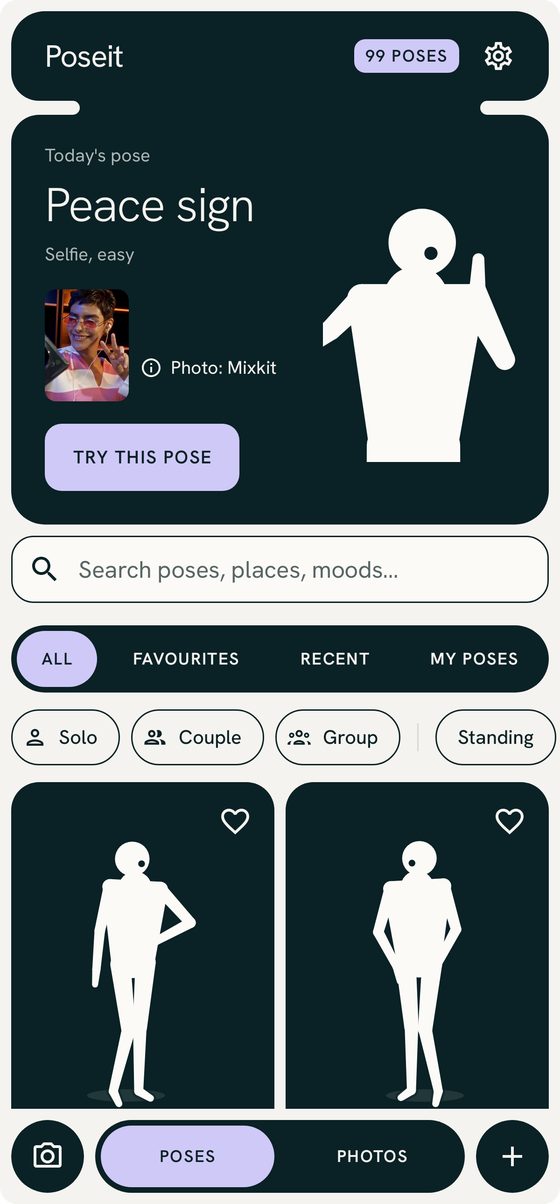
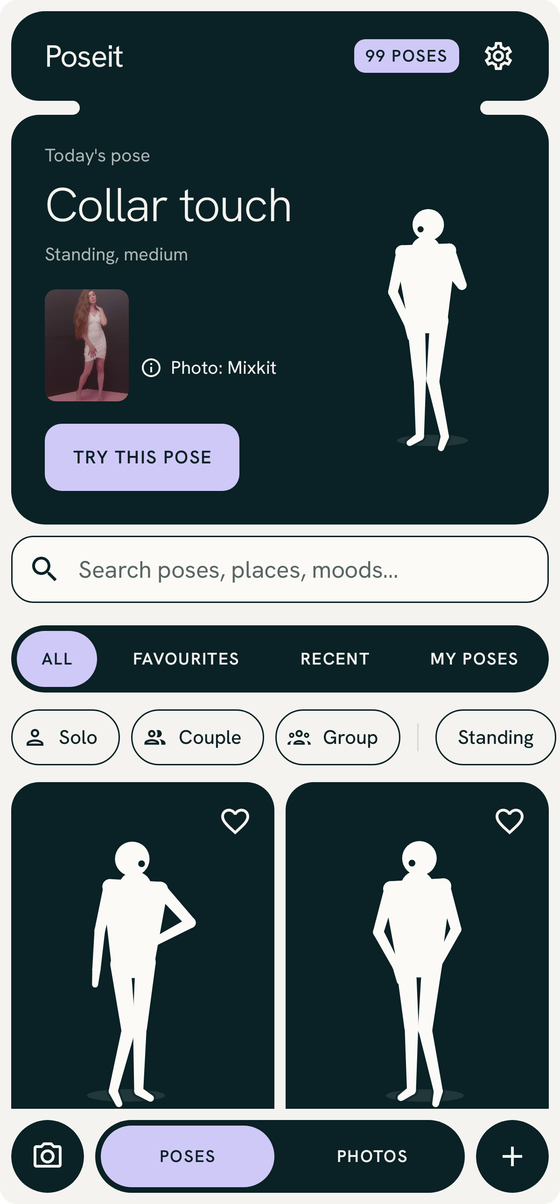
Release 1.2.0: apply the release review
- Release notes: each paragraph and list item on one line, because GitHub
  shows the file as the release body and turns single newlines into line
  breaks. The credit claim now matches the app: each photo shows its credit
  beside it, or one tap away on the small prints (was "under it").
- README: "always with its credit" (a library tile's print is its credit
  button, so there is no credit line there); the detail screenshot's alt
  text says only the tops of the Level and People cards show.
- Library screenshot: Today's pose is pinned to Collar touch, a whole
  figure with a Mixkit photo, instead of the cut-off Peace sign close-up.
- QR code in the v2 palette, Teal950 on Cream100 (was the v1 Ink on
  Paper); it still decodes to the latest release page.

Claude-Session: https://claude.ai/code/session_01FU47QwKRjp6sTvn1zMXdEN

Changed region(s): [[0.5768, 0.1537, 0.9411, 0.3995], [0.0607, 0.1537, 0.5161, 0.338]]

diff --git a/app/src/test/java/com/poseit/app/screens/RepoAssetsTest.kt b/app/src/test/java/com/poseit/app/screens/RepoAssetsTest.kt
@@ -242,8 +242,11 @@ class RepoAssetsTest {
         const val CAMERA_POSE = "fun_superhero"
         const val EDITOR_POSE = "fun_disco_point"
 
-        /** Noon UTC on 2026-11-22, the 1.2.0 release day: Today's pose is Peace sign, a pose with a sample photo. */
-        const val LIBRARY_DAY_MILLIS = 1_795_348_800_000L
+        /**
+         * Noon UTC on 2026-12-04: Today's pose is Collar touch, a whole figure with a sample photo (a Mixkit still, so
+         * "Photo: Mixkit" is the whole credit). A close-up such as Peace sign would leave the hero a cut-off bust.
+         */
+        const val LIBRARY_DAY_MILLIS = 1_796_385_600_000L
     }
 }
 

diff --git a/scripts/repo_assets.py b/scripts/repo_assets.py
@@ -15,7 +15,8 @@ is decoded again to check it.
   scale) on the corners.
 - icon.png: the adaptive launcher icon, flat, 256x256, cut to the disc the app ships for launchers without
   adaptive icons (res/mipmap/ic_launcher.xml).
-- qr-latest-release.png: the latest release page as a QR code, Ink on Paper, 4-module quiet zone.
+- qr-latest-release.png: the latest release page as a QR code, Teal950 on Cream100 (the cards' teal on the canvas
+  cream, 15:1), 4-module quiet zone.
 
 Each image is saved as a palette PNG when that keeps every pixel within a small colour distance of the original
 (no visible banding), otherwise as an optimised full-colour PNG.
@@ -33,8 +34,9 @@ RENDERS = ROOT / "app" / "build" / "repo-assets"
 OUT = ROOT / "docs" / "images"
 
 RELEASE_URL = "https://github.com/mdhaarishussain/Poseit/releases/latest"
-INK = (0x17, 0x18, 0x1A)
-PAPER = (0xE4, 0xE5, 0xE1)
+# docs/DESIGN.md palette: Teal950 (the dark cards, textPrimary) on Cream100 (the canvas).
+INK = (0x0A, 0x21, 0x25)
+PAPER = (0xF4, 0xF3, 0xEF)
 
 # The banners are 800dp wide at 2 px per dp: 40dp is 80 px.
 BANNER_RADIUS = 80

diff --git a/docs/releases/v1.2.0.md b/docs/releases/v1.2.0.md
@@ -1,9 +1,6 @@
-A new look, and real photos next to the figures. Poseit now has dark teal cards on a cream background, one soft
-lavender colour for the main button, and a new typeface. 34 of the 99 poses also show a photo of real people in the
-pose, beside the white figure.
+A new look, and real photos next to the figures. Poseit now has dark teal cards on a cream background, one soft lavender colour for the main button, and a new typeface. 34 of the 99 poses also show a photo of real people in the pose, beside the white figure.
 
-**Install:** on your Android phone (7.0 or newer), download `Poseit-v1.2.0.apk` from the Assets below and open it. It
-installs over 1.1.0 and keeps your saved photos, your own poses, favourites and settings.
+**Install:** on your Android phone (7.0 or newer), download `Poseit-v1.2.0.apk` from the Assets below and open it. It installs over 1.1.0 and keeps your saved photos, your own poses, favourites and settings.
 
 ### What changed
 
@@ -12,21 +9,14 @@ installs over 1.1.0 and keeps your saved photos, your own poses, favourites and 
   - One accent colour, a soft lavender, for the main button, badges and the selected option.
   - A new typeface, Hanken Grotesk (bundled, so it works offline), with big light headings.
   - White figures on dark tiles, and a new app icon.
-- **Navigation:** a bar at the bottom of the home screen with the camera, a Poses and Photos switch, and a button to
-  make your own pose.
-- **Real photos:** 34 of the 99 poses show a photo of people doing the pose: on the pose's page ("See it on a
-  person"), in the camera's pose tips, and as a small print on the library tiles and Today's pose. The figure is still
-  what the camera matches you to; the photo shows how the pose looks on a real person.
-- **Photo credits:** every photo has its credit line under it; tap it for the author, source, licence and the changes
-  made. All of them are in Settings > About > Photo credits.
+- **Navigation:** a bar at the bottom of the home screen with the camera, a Poses and Photos switch, and a button to make your own pose.
+- **Real photos:** 34 of the 99 poses show a photo of people doing the pose: on the pose's page ("See it on a person"), in the camera's pose tips, and as a small print on the library tiles and Today's pose. The figure is still what the camera matches you to; the photo shows how the pose looks on a real person.
+- **Photo credits:** each photo shows its credit beside it, or, on the small prints, one tap away. Tap the credit for the author, source, licence and the changes made. All of them are in Settings > About > Photo credits.
 - **Settings:** match strictness and the countdown are now at the top.
 - **Large text and TalkBack:** buttons and screens adapt to large font sizes, and more controls have clear names.
 
-Sample photos from Mixkit (Mixkit Stock Video Free License) and Wikimedia Commons (CC0 and CC BY 2.0). Full credits
-are in the app.
+Sample photos from Mixkit (Mixkit Stock Video Free License) and Wikimedia Commons (CC0 and CC BY 2.0). Full credits are in the app.
 
 ### Still to check on a real phone
 
-The app was tested on the JVM: 374 automated tests, including UI flows on Android 7, 9 and 15, plus screenshot
-tests. Live camera detection, voice coaching and saving photos still need a device check. Please report anything
-that looks off.
+The app was tested on the JVM: 374 automated tests, including UI flows on Android 7, 9 and 15, plus screenshot tests. Live camera detection, voice coaching and saving photos still need a device check. Please report anything that looks off.

diff --git a/README.md b/README.md
@@ -34,8 +34,8 @@ known not to work.
 ## Screenshots
 
 <p>
-  <img src="docs/images/screens/1-library.png" width="32%" alt="The library: a dark top bar card with the Poseit wordmark and a 99 poses badge, joined to the Today's pose card for Peace sign with its figure, a small sample photo, the credit line Photo: Mixkit and the button Try this pose; below, a search field, tabs for all poses, favourites, recent and my poses, filter pills for solo, couple, group and standing, the first pose tiles, and a bottom bar with the camera, Poses and Photos, and a plus button.">
-  <img src="docs/images/screens/2-pose-detail.png" width="32%" alt="The Walk across pose: its name card and the walking white figure inside frame marks, joined to the card See it on a person with a real photo of someone walking across a paved city square and the credit line Photo: Mixkit; below, the Level and People cards and the buttons Customise and Try this pose.">
+  <img src="docs/images/screens/1-library.png" width="32%" alt="The library: a dark top bar card with the Poseit wordmark and a 99 poses badge, joined to the Today's pose card for Collar touch with its standing figure, a small sample photo, the credit line Photo: Mixkit and the button Try this pose; below, a search field, tabs for all poses, favourites, recent and my poses, filter pills for solo, couple, group and standing, the first pose tiles, and a bottom bar with the camera, Poses and Photos, and a plus button.">
+  <img src="docs/images/screens/2-pose-detail.png" width="32%" alt="The Walk across pose: its name card and the walking white figure inside frame marks, joined to the card See it on a person with a real photo of someone walking across a paved city square and the credit line Photo: Mixkit; below, the tops of the Level and People cards and the buttons Customise and Try this pose.">
   <img src="docs/images/screens/3-camera.png" width="32%" alt="The camera on a black preview: the Superhero stance guide drawn in green with a white stick skeleton on top, a score ring showing 93%, the hint Perfect. Hold it, and below the pose strip and the shutter."><br>
   <img src="docs/images/screens/4-editor.png" width="32%" alt="The pose editor, based on Disco point: a figure with a round handle on each joint over a grid, a Save button, undo and redo, and buttons for mirror, reset, add person and remove.">
   <img src="docs/images/screens/5-pose-from-photo.png" width="32%" alt="Pose from a photo: the headline Recreate any photo, a faded figure beside the traced white figure, a note that the photo is never uploaded, three numbered steps, and the button Choose a photo.">
@@ -49,7 +49,7 @@ known not to work.
 - 99 original poses in 11 categories, from standing, sitting and walking to selfies, couples and groups.
 - Filter by the number of people, category, place and mood, or search for words like "beach" or "confident".
 - Each pose has a short description and numbered steps, and the library suggests one pose to try each day.
-- 34 of the poses also show a real photo of people in the pose next to the figure, always with its credit line.
+- 34 of the poses also show a real photo of people in the pose next to the figure, always with its credit.
   Every photo's author, source, licence and changes are in Settings, under About, Photo credits.
 - Keep favourites; recently used poses get their own tab.
 
